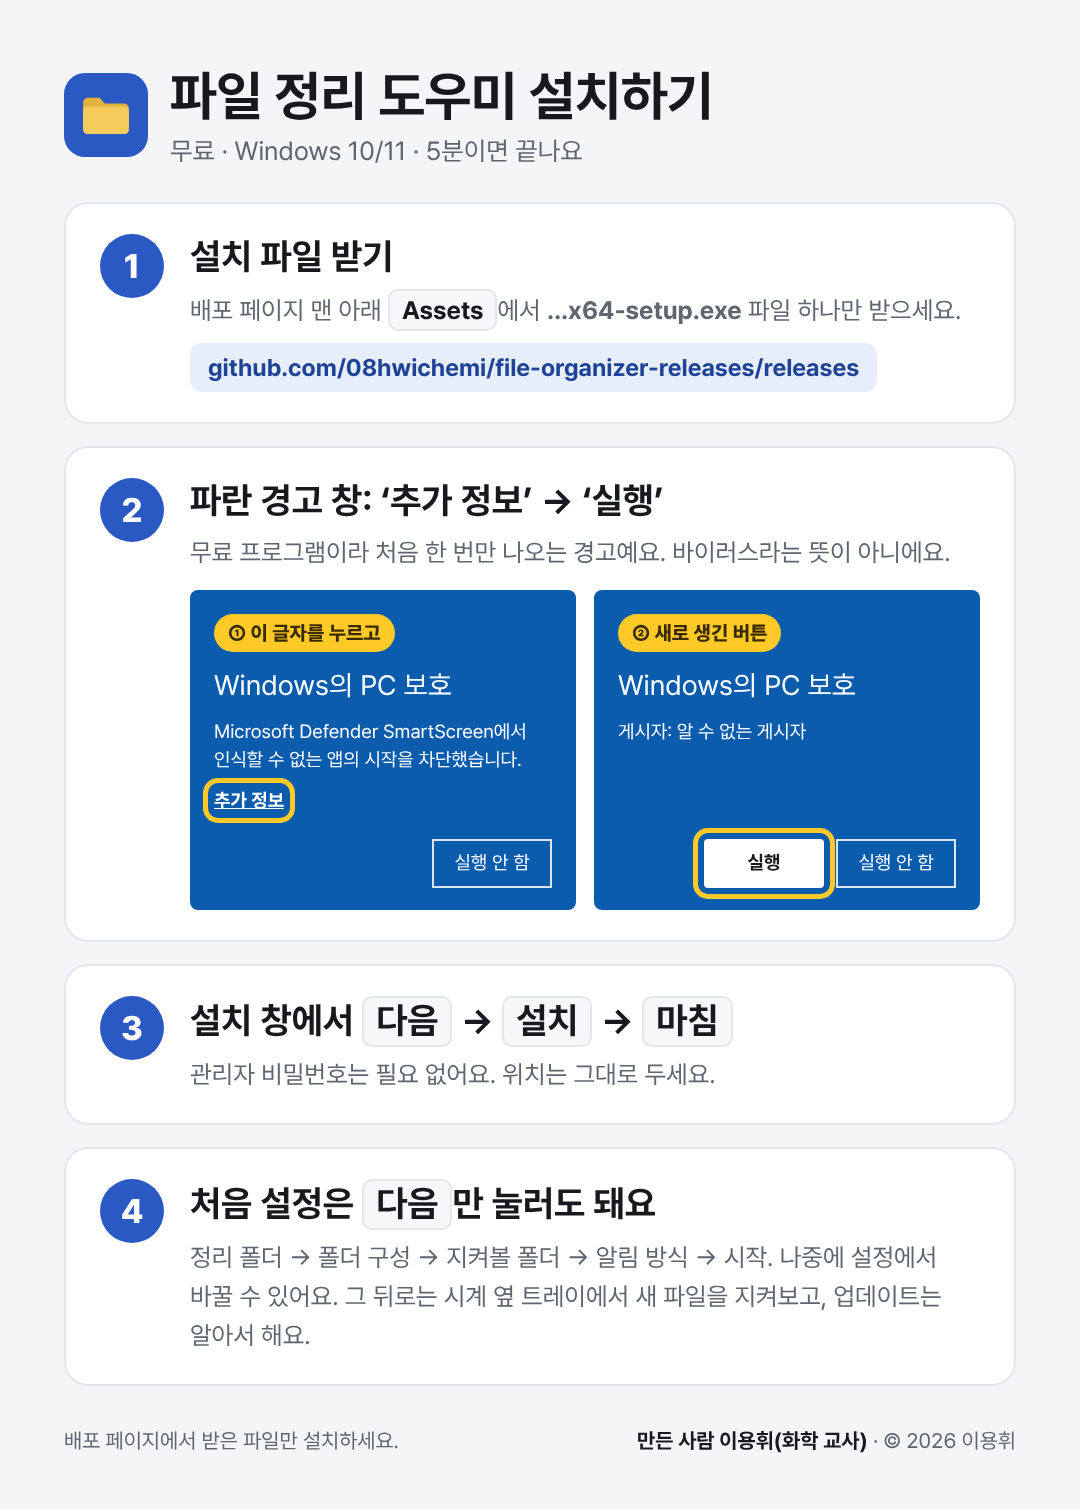
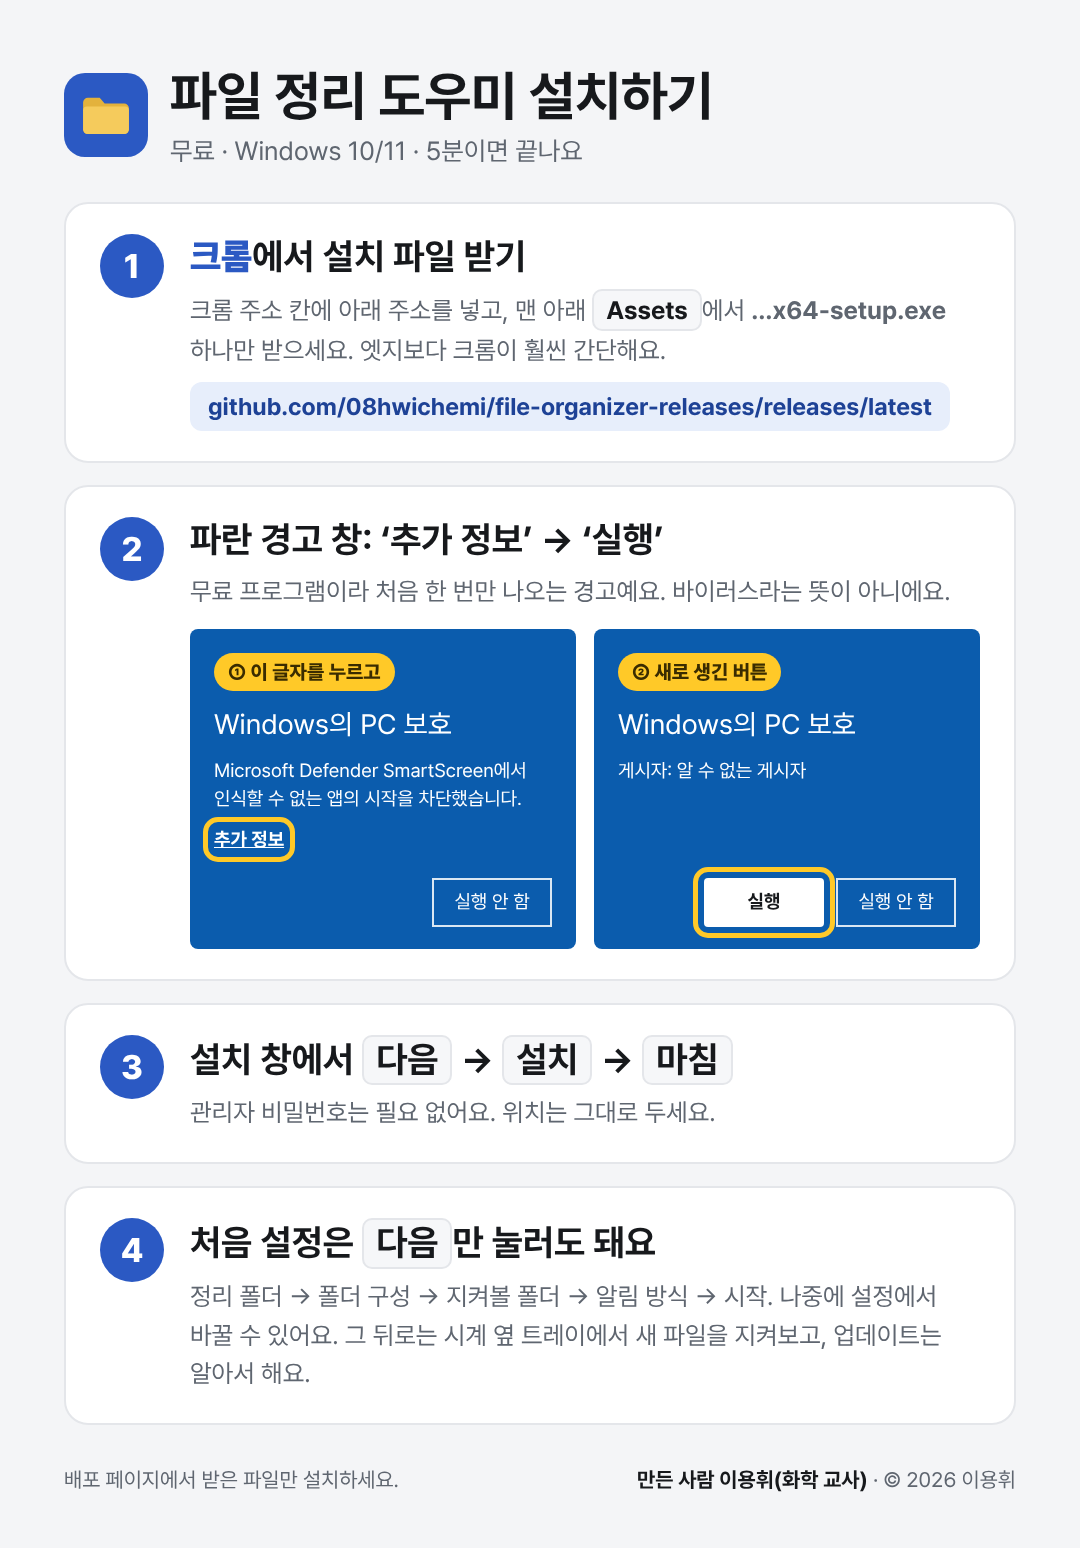
설치 안내: 크롬에서 받기를 권하도록 고침
- 이미지 1단계: 크롬 주소 칸에 배포 페이지 주소 넣기(엣지보다 단계가 적음)
- SPEC 7장: 크롬 권장, 엣지는 보조 안내

Claude-Session: https://claude.ai/code/session_01UbcZWhz3uu2RKRejjD317k

diff --git a/docs/install-image/install-image.html b/docs/install-image/install-image.html
@@ -72,6 +72,7 @@
     color: var(--text);
     font-weight: 700;
   }
+  .chrome { color: var(--accent); }
   .url {
     display: inline-block;
     margin-top: 12px;
@@ -139,9 +140,9 @@
     <div class="step">
       <div class="num">1</div>
       <div>
-        <h2>설치 파일 받기</h2>
-        <p>배포 페이지 맨 아래 <span class="k">Assets</span>에서 <b>…x64-setup.exe</b> 파일 하나만 받으세요.</p>
-        <span class="url">github.com/08hwichemi/file-organizer-releases/releases</span>
+        <h2><b class="chrome">크롬</b>에서 설치 파일 받기</h2>
+        <p>크롬 주소 칸에 아래 주소를 넣고, 맨 아래 <span class="k">Assets</span>에서 <b>…x64-setup.exe</b> 하나만 받으세요. 엣지보다 크롬이 훨씬 간단해요.</p>
+        <span class="url">github.com/08hwichemi/file-organizer-releases/releases/latest</span>
       </div>
     </div>
 

diff --git a/docs/SPEC.md b/docs/SPEC.md
@@ -179,6 +179,7 @@
 - 빌드·배포: **main에 병합될 때마다** GitHub Actions(`release.yml`, windows-latest)가 버전 `0.1.<실행 번호>`로 빌드·서명하고, 설치 파일을 영문 이름(`file-organizer_<버전>_x64-setup.exe`)으로 바꿔 `latest.json`과 함께 공개 저장소 Releases에 올린다(`scripts/prepare-release.sh`). 설치된 프로그램은 다음 확인 때 스스로 업데이트한다. Secrets가 없으면 배포를 건너뛴다.
 - PR마다 설치 파일을 아티팩트로도 만든다(버전 0.1.0, 업데이트 서명 없음).
 - "알 수 없는 게시자" 경고(SmartScreen): **코드 서명 없이 무료로 배포**하고 "추가 정보 → 실행"을 안내한다(사용자 결정). 까닭: 개인용 Microsoft 서명 서비스는 미국·캐나다만, 인증서는 연 수십만 원이고 2024년부터는 EV 인증서도 경고를 바로 없애 주지 않는다. 경고는 처음 설치 때만 나오고 자동 업데이트에는 안 나온다.
+  - 받기는 **크롬을 권한다**(엣지는 받을 때 "유지 → 자세히 표시 → 그래도 계속"까지 단계가 많음. 링크를 크롬으로 강제로 열 방법은 없어 주소 복사로 안내).
   - 설치 안내 페이지: https://claude.ai/artifact/KBogxpj8DUs2emwBfKfZg3 (받기 → 경고 창 → 설치 → 처음 설정, 자주 묻는 것)
   - 메신저로 보낼 한 장짜리 이미지: `docs/install-image/install-guide.png`(원본 `install-image.html`)
 
